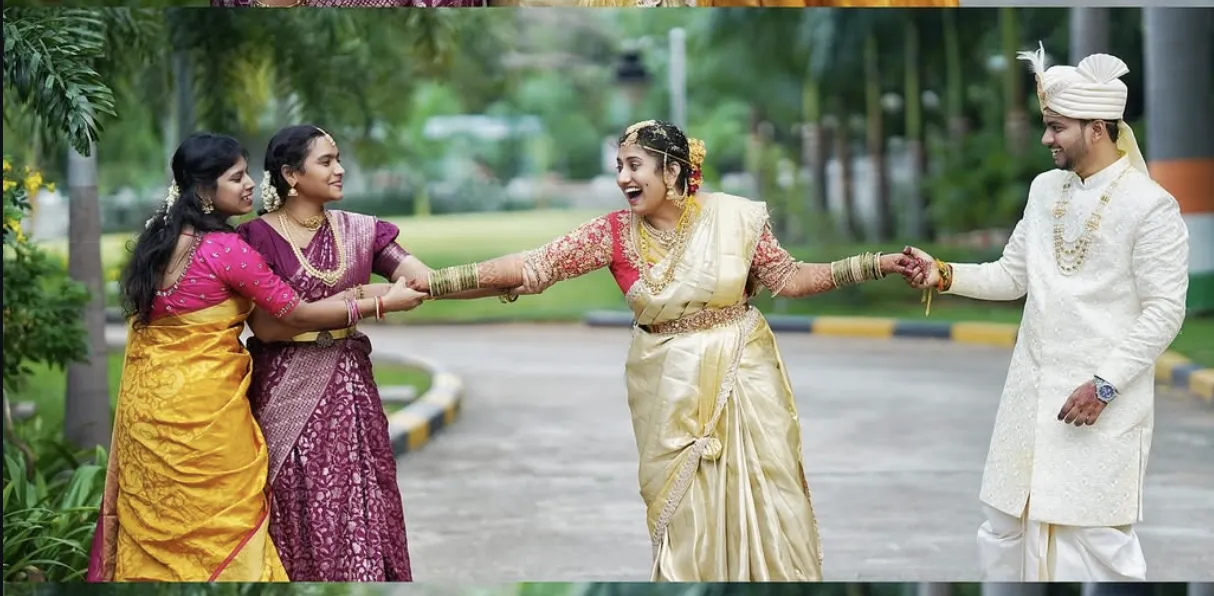
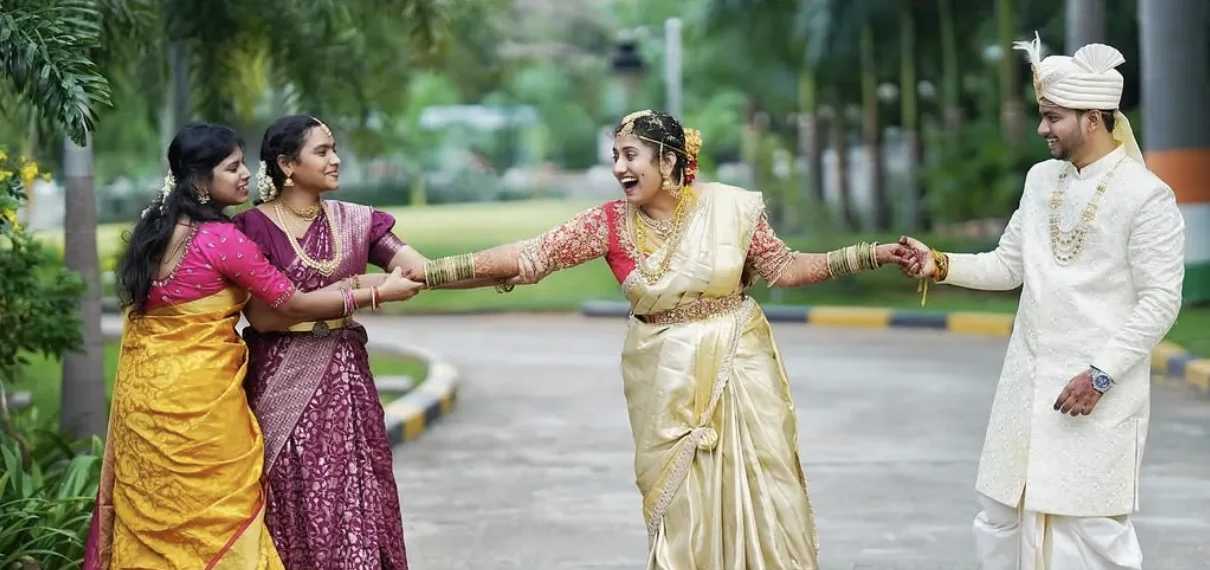
Fix cropping on extra-wide portfolio photos

diff --git a/css/portfolio.css b/css/portfolio.css
@@ -100,6 +100,16 @@ h1, h2, h3 {
     aspect-ratio: 3 / 4;
 }
 
+/* Extra-wide photos: box matches the photo, and no extra image height,
+   so nothing is cropped off the sides */
+.gallery-item.wide {
+    aspect-ratio: var(--ar);
+}
+.gallery-item.wide img {
+    height: 100%;
+    top: 0;
+}
+
 /* Triggered by JS IntersectionObserver */
 .gallery-item.is-visible {
     opacity: 1;
@@ -273,9 +283,13 @@ h1, h2, h3 {
         width: 100%;
     }
     .gallery-item.landscape,
-    .gallery-item.portrait {
+    .gallery-item.portrait,
+    .gallery-item.wide {
         grid-column: unset;
         aspect-ratio: unset; /* height now comes from the natural image ratio */
+    }
+    .gallery-item.wide img {
+        height: auto;
     }
     .gallery-image-wrapper {
         height: auto;

diff --git a/js/portfolio.js b/js/portfolio.js
@@ -39,6 +39,13 @@ document.addEventListener('DOMContentLoaded', () => {
         img.addEventListener('load', () => {
             if (img.naturalWidth >= img.naturalHeight) {
                 item.classList.add('landscape');
+                // Photos wider than the 16:9 box would lose their sides to
+                // cropping, so give them a box that matches their own shape.
+                const ratio = img.naturalWidth / img.naturalHeight;
+                if (ratio > 16 / 9 + 0.05) {
+                    item.classList.add('wide');
+                    item.style.setProperty('--ar', ratio.toFixed(3));
+                }
             } else {
                 item.classList.add('portrait');
             }
